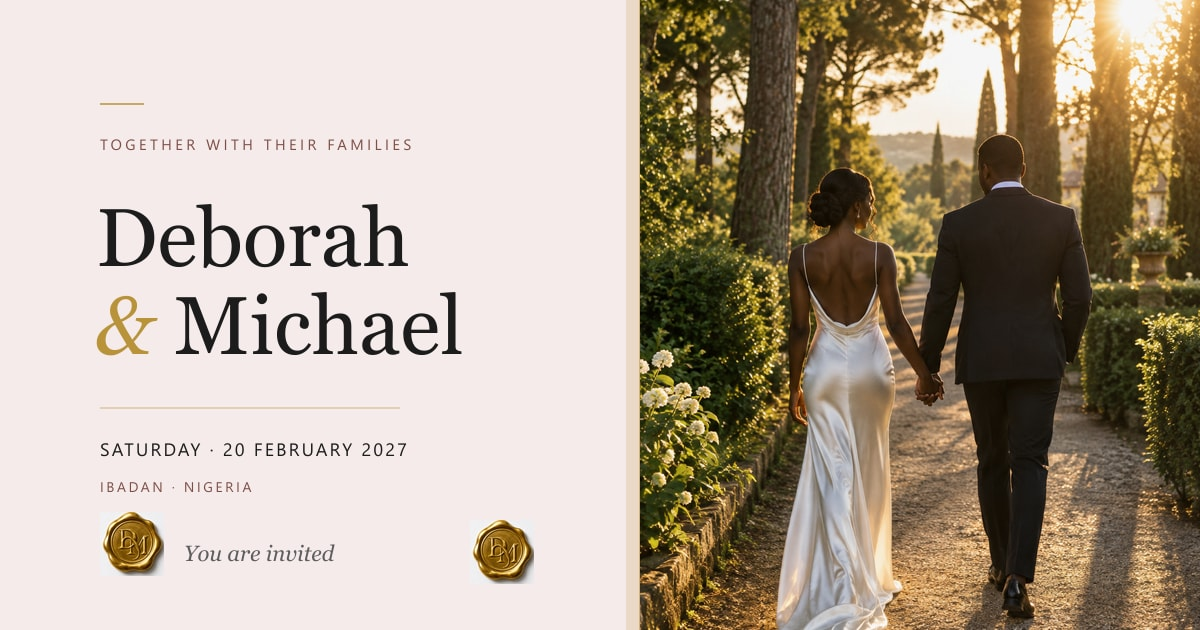
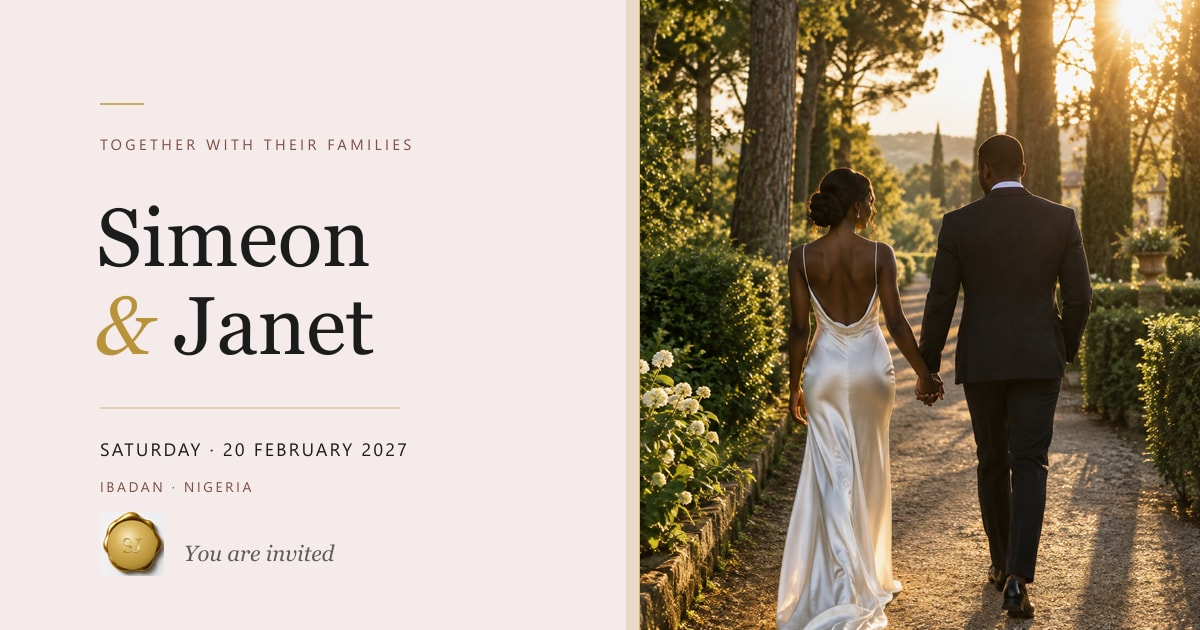
content: Simeon and Janet, three ceremonies, generic story, SJ wax seal

diff --git a/src/lib/wedding.js b/src/lib/wedding.js
@@ -1,29 +1,31 @@
 /**
  * Wedding content — Heirloom Lace template.
  * Every photograph is declared as { local, cloud }: `cloud` is the
- * Cloudinary public id used in production, `local` is the bundled demo copy.
+ * Cloudinary public id used in production, `local` is the bundled copy.
  */
 
 export const wedding = {
   template: "heirloom-lace",
   couple: {
-    first: "Deborah",
-    second: "Michael",
-    initials: "DM",
+    first: "Simeon",
+    second: "Janet",
+    initials: "SJ",
   },
   families: {
-    bride: "Mr & Mrs Adeyemi",
-    groom: "Mr & Mrs Okafor",
+    bride: "Mr & Mrs Matthew",
+    groom: "Elder & Mrs Adewuyi",
   },
-  dateISO: "2027-02-20T10:00:00+01:00",
+  dateISO: "2027-02-20T08:00:00+01:00",
   city: "Ibadan, Nigeria",
   dateShort: "20 · 02 · 2027",
   dateLong: "Saturday, 20 February 2027",
   dateFooter: "SATURDAY · 20 FEBRUARY 2027 · IBADAN",
-  rsvpBy: "20 January",
-  rsvpByFull: "20 January 2027",
+  rsvpBy: "6 February",
+  rsvpByFull: "6 February 2027",
 
   requestLine: "request the honour of your presence at the marriage of their children",
+
+  storyIntro: "From a first conversation to “I do” — a few chapters from our story.",
 
   photos: {
     hero: { local: "/assets/photos/gallery-1.jpg", cloud: "vows/heirloom/hero-walk" },
@@ -42,40 +44,75 @@ export const wedding = {
   },
 
   story: [
-    { date: "September 2019", title: "Where we met", text: "A friend’s birthday dinner in Ibadan, laughter over jollof rice and small chops, and a conversation neither of us wanted to end. Michael walked Deborah to her car that night and asked for her number. Three days later, we had our first proper date.", photoKey: "met" },
-    { date: "December 2019", title: "Our first date", text: "Michael booked a quiet corner table at a small restaurant in Bodija — white tablecloths, candlelight, and a menu neither of us quite understood. Deborah ordered the safest dish on it, Michael ordered the strangest, and we ended up sharing both. We stayed long after dessert, talking until the staff began stacking chairs around us.", photoKey: "firstDate" },
-    { date: "June 2026", title: "The proposal", text: "Michael planned a quiet Sunday lunch at his parents’ home, then disappeared into the garden. When Deborah followed, the fairy lights were already on, her favourite songs were playing softly, and both families were watching from the veranda. He spoke about the seven years since that birthday dinner, got halfway through his speech, gave up on the words and simply asked. She said yes before he finished.", photoKey: "proposal" },
-    { date: "February 2027", title: "The wedding", text: "On the morning of 20 February 2027, the people who shaped us will gather at The White Chapel — our parents, our siblings, and the friends who held every chapter of this story. We will say our vows at ten, celebrate at noon, and dance long after the sun sets. After all this time, the only thing missing is you.", photoKey: "weddingDay" },
+    {
+      date: "The beginning",
+      title: "Where it began",
+      text: "Simeon and Janet’s story began with a conversation neither of them wanted to end. What started as a chance meeting grew into a friendship, and then into something neither could imagine life without.",
+      photoKey: "met",
+    },
+    {
+      date: "The first date",
+      title: "Our first date",
+      text: "The first date was simple — good food, easy laughter and a conversation that carried on long after the plates were cleared. By the end of the evening, they both knew this was the beginning of something lasting.",
+      photoKey: "firstDate",
+    },
+    {
+      date: "The proposal",
+      title: "The proposal",
+      text: "Simeon planned a quiet moment with the people closest to them. There were nerves, a few happy tears and a question that had been on his heart for a long time. Janet said yes.",
+      photoKey: "proposal",
+    },
+    {
+      date: "20 February 2027",
+      title: "The wedding",
+      text: "On Saturday, 20 February 2027, Simeon and Janet will gather their families and friends in Ibadan to celebrate the beginning of their married life. They would love for you to be there.",
+      photoKey: "weddingDay",
+    },
   ],
 
   events: [
     {
+      label: "Traditional wedding",
+      name: "Richbam Junction",
+      time: "8:00 AM",
+      address: "Alao-Akala Expressway, Oluyole, Ibadan",
+      fullAddress:
+        "Richbam Junction, Alao-Akala Expressway, Oluyole, Ibadan, Oyo State, Nigeria",
+      startISO: "2027-02-20T08:00:00+01:00",
+      endISO: "2027-02-20T10:30:00+01:00",
+      photoKey: "hero",
+    },
+    {
       label: "Church wedding",
-      name: "The White Chapel",
-      time: "10:00 AM",
-      address: "14 Bodija Road, Ibadan",
-      fullAddress: "The White Chapel, 14 Bodija Road, Ibadan, Oyo State, Nigeria",
-      coords: { lat: 7.4305, lng: 3.9096 },
+      name: "Living Faith Church",
+      time: "11:00 AM",
+      address: "Akala Express, Ibadan",
+      fullAddress: "Living Faith Church, Akala Express, Ibadan, Oyo State, Nigeria",
+      startISO: "2027-02-20T11:00:00+01:00",
+      endISO: "2027-02-20T12:00:00+01:00",
       photoKey: "church",
     },
     {
       label: "Reception",
-      name: "The Grand Atrium",
+      name: "Richbam Junction",
       time: "12:00 PM",
-      address: "3 Jericho GRA, Ibadan",
-      fullAddress: "The Grand Atrium, 3 Jericho GRA, Ibadan, Oyo State, Nigeria",
-      coords: { lat: 7.4087, lng: 3.8812 },
+      address: "Alao-Akala Expressway, Oluyole, Ibadan",
+      fullAddress:
+        "Richbam Junction, Alao-Akala Expressway, Oluyole, Ibadan, Oyo State, Nigeria",
+      startISO: "2027-02-20T12:00:00+01:00",
+      endISO: "2027-02-20T17:00:00+01:00",
       photoKey: "atrium",
     },
   ],
 
   programme: [
-    { title: "Guests arrive", time: "9:30 AM" },
-    { title: "The ceremony", time: "10:00 AM" },
-    { title: "Photographs", time: "11:30 AM" },
+    { title: "Guests arrive", time: "7:30 AM" },
+    { title: "Traditional wedding", time: "8:00 AM" },
+    { title: "Move to church", time: "10:30 AM" },
+    { title: "Church wedding", time: "11:00 AM" },
     { title: "Reception", time: "12:00 PM" },
-    { title: "Dinner & toasts", time: "2:00 PM" },
-    { title: "First dance", time: "3:30 PM" },
+    { title: "Lunch & toasts", time: "2:00 PM" },
+    { title: "First dance", time: "4:00 PM" },
   ],
 
   dress: {
@@ -84,8 +121,8 @@ export const wedding = {
   },
 
   gallery: [
-    { photoKey: "hero", caption: "The walk", alt: "Deborah and Michael walking hand in hand along a tree-lined path at golden hour" },
-    { photoKey: "bouquet", caption: "Her bouquet", alt: "Deborah’s white rose and eucalyptus bouquet" },
+    { photoKey: "hero", caption: "The walk", alt: "Simeon and Janet walking hand in hand along a tree-lined path at golden hour" },
+    { photoKey: "bouquet", caption: "Her bouquet", alt: "Janet’s white rose and eucalyptus bouquet" },
     { photoKey: "rings", caption: "The rings", alt: "Gold wedding rings on ivory satin" },
     { photoKey: "cake", caption: "The cake", alt: "Four-tier white and gold wedding cake" },
     { photoKey: "dinner", caption: "Dinner", alt: "A place setting with gold cutlery and olive leaves" },
@@ -94,5 +131,5 @@ export const wedding = {
 
   music: { label: "Our song", src: "/assets/audio/our-song.mp3" },
 
-  invitation: { slug: "deborah-michael" },
+  invitation: { slug: "simeon-janet" },
 };

diff --git a/index.html b/index.html
@@ -6,22 +6,22 @@
     <meta name="theme-color" content="#f5ebeb" />
     <meta
       name="description"
-      content="Deborah & Michael are getting married. Saturday, 20 February 2027, Ibadan. You are invited — open the invitation, view the details and reply."
+      content="Simeon & Janet are getting married. Saturday, 20 February 2027, Ibadan. You are invited — open the invitation, view the details and reply."
     />
     <meta name="format-detection" content="telephone=no" />
     <meta name="mobile-web-app-capable" content="yes" />
     <meta name="apple-mobile-web-app-capable" content="yes" />
-    <meta name="apple-mobile-web-app-title" content="D & M" />
+    <meta name="apple-mobile-web-app-title" content="S & J" />
     <meta name="apple-mobile-web-app-status-bar-style" content="default" />
 
-    <title>Deborah &amp; Michael · 20 February 2027</title>
+    <title>Simeon &amp; Janet · 20 February 2027</title>
     <link rel="canonical" href="https://vows-deborah-michael.vercel.app/" />
 
     <!-- Link previews (WhatsApp, iMessage, X, Facebook) -->
     <meta property="og:type" content="website" />
     <meta property="og:url" content="https://vows-deborah-michael.vercel.app/" />
-    <meta property="og:site_name" content="Deborah & Michael" />
-    <meta property="og:title" content="Deborah & Michael · You are invited" />
+    <meta property="og:site_name" content="Simeon & Janet" />
+    <meta property="og:title" content="Simeon & Janet · You are invited" />
     <meta
       property="og:description"
       content="Saturday, 20 February 2027 · Ibadan, Nigeria. Open the invitation, view the details and reply."
@@ -32,10 +32,10 @@
     <meta property="og:image:height" content="630" />
     <meta
       property="og:image:alt"
-      content="Deborah and Michael walking hand in hand at golden hour"
+      content="Simeon and Janet walking hand in hand at golden hour"
     />
     <meta name="twitter:card" content="summary_large_image" />
-    <meta name="twitter:title" content="Deborah & Michael · You are invited" />
+    <meta name="twitter:title" content="Simeon & Janet · You are invited" />
     <meta
       name="twitter:description"
       content="Saturday, 20 February 2027 · Ibadan, Nigeria. Open the invitation, view the details and reply."
@@ -83,17 +83,17 @@
       {
         "@context": "https://schema.org",
         "@type": "Event",
-        "name": "The wedding of Deborah & Michael",
-        "description": "The wedding ceremony and reception of Deborah and Michael.",
-        "startDate": "2027-02-20T10:00:00+01:00",
+        "name": "The wedding of Simeon & Janet",
+        "description": "The traditional, church and reception celebrations of Simeon and Janet.",
+        "startDate": "2027-02-20T08:00:00+01:00",
         "eventStatus": "https://schema.org/EventScheduled",
         "eventAttendanceMode": "https://schema.org/OfflineEventAttendanceMode",
         "location": {
           "@type": "Place",
-          "name": "The White Chapel",
+          "name": "Richbam Junction",
           "address": {
             "@type": "PostalAddress",
-            "streetAddress": "14 Bodija Road",
+            "streetAddress": "Richbam Junction, Alao-Akala Expressway, Oluyole",
             "addressLocality": "Ibadan",
             "addressRegion": "Oyo State",
             "addressCountry": "NG"

diff --git a/src/lib/ics.js b/src/lib/ics.js
@@ -1,6 +1,6 @@
 import { wedding } from "./wedding";
 
-/** Download an .ics covering both wedding events. */
+/** Download an .ics covering every wedding event. */
 export function downloadWeddingIcs() {
   const pad = (n) => String(n).padStart(2, "0");
   const now = new Date();
@@ -8,19 +8,22 @@ export function downloadWeddingIcs() {
     `${now.getUTCFullYear()}${pad(now.getUTCMonth() + 1)}${pad(now.getUTCDate())}` +
     `T${pad(now.getUTCHours())}${pad(now.getUTCMinutes())}00Z`;
 
+  const toUtc = (iso) =>
+    new Date(iso).toISOString().replace(/[-:]/g, "").replace(/\.\d{3}Z$/, "Z");
+
   const events = wedding.events
-    .map((e, i) => {
-      const startUtc = i === 0 ? "20270220T090000Z" : "20270220T110000Z"; // 2PM / 5PM WAT
-      const endUtc = i === 0 ? "20270220T103000Z" : "20270220T180000Z";
+    .map((event, index) => {
+      const start = toUtc(event.startISO ?? wedding.dateISO);
+      const end = toUtc(event.endISO ?? event.startISO ?? wedding.dateISO);
       return [
         "BEGIN:VEVENT",
-        `UID:vows-${wedding.invitation.slug}-${i + 1}@vows.demo`,
+        `UID:vows-${wedding.invitation.slug}-${index + 1}@vows.demo`,
         `DTSTAMP:${stamp}`,
-        `DTSTART:${startUtc}`,
-        `DTEND:${endUtc}`,
-        `SUMMARY:${wedding.couple.first} & ${wedding.couple.second} — ${e.label}`,
-        `LOCATION:${e.fullAddress}`,
-        `DESCRIPTION:${e.time}. ${wedding.dress.headline}.`,
+        `DTSTART:${start}`,
+        `DTEND:${end}`,
+        `SUMMARY:${wedding.couple.first} & ${wedding.couple.second} — ${event.label}`,
+        `LOCATION:${event.fullAddress}`,
+        `DESCRIPTION:${event.time}. ${wedding.dress.headline}.`,
         "END:VEVENT",
       ].join("\r\n");
     })
@@ -31,6 +34,7 @@ export function downloadWeddingIcs() {
     "VERSION:2.0",
     "PRODID:-//VOWS//Invitation//EN",
     "CALSCALE:GREGORIAN",
+    `X-WR-CALNAME:${wedding.couple.first} & ${wedding.couple.second} — Wedding`,
     events,
     "END:VCALENDAR",
   ].join("\r\n");
@@ -39,7 +43,7 @@ export function downloadWeddingIcs() {
   const url = URL.createObjectURL(blob);
   const a = document.createElement("a");
   a.href = url;
-  a.download = "deborah-michael-wedding.ics";
+  a.download = `${wedding.invitation.slug}-wedding.ics`;
   document.body.appendChild(a);
   a.click();
   a.remove();

diff --git a/src/scenes/Scene08Rsvp.jsx b/src/scenes/Scene08Rsvp.jsx
@@ -194,12 +194,12 @@ export function Scene08Rsvp({ onNext, onDetails }) {
           <WaxSeal size={64} className="reply-done__seal" />
           <p className="type-title">RSVPs are now closed</p>
           <p className="type-body-lg text-secondary reply-done__line">
-            The couple are finalising numbers with the venue. If you need to reach them, message Tobi
-            (best man) on WhatsApp.
+            The couple are finalising numbers with the venue. If you need to reach them, message
+            the couple on WhatsApp.
           </p>
         </motion.div>
         <div className="reply-done__actions">
-          <a className="vbtn vbtn--white reply-done__cta" href="https://wa.me/2348000000000" target="_blank" rel="noreferrer">
+          <a className="vbtn vbtn--white reply-done__cta" href="https://wa.me/2349035517399" target="_blank" rel="noreferrer">
             Message on WhatsApp
           </a>
         </div>

diff --git a/src/styles/scenes.css b/src/styles/scenes.css
@@ -438,6 +438,30 @@
 .scene-entrance__music .pill__bars i:nth-child(3) { height: 8.8px; }
 .scene-entrance__music .pill__bars i:nth-child(4) { height: 11.2px; }
 
+/* New SJ monogram plate over the baked envelope seal (monogram only). */
+.env-monogram {
+  position: absolute;
+  z-index: 3;
+  left: 50%;
+  top: 52.67%;
+  width: 12.5%;
+  aspect-ratio: 1;
+  transform: translate(-50%, -50%);
+  pointer-events: none;
+}
+.env-monogram img {
+  display: block;
+  width: 100%;
+  height: 100%;
+  object-fit: contain;
+}
+@media (min-width: 768px) and (max-width: 1023px) {
+  .env-monogram { top: 45.83%; width: 11.5%; }
+}
+@media (min-width: 1024px) {
+  .env-monogram { top: 55.78%; width: 6%; }
+}
+
 .scene-entrance__date {
   position: absolute;
   z-index: 2;

diff --git a/src/scenes/Scene03SaveDate.jsx b/src/scenes/Scene03SaveDate.jsx
@@ -23,7 +23,7 @@ export function Scene03SaveDate() {
   const hours = Math.floor((left % 86400000) / 3600000);
   const minutes = Math.floor((left % 3600000) / 60000);
   const seconds = Math.floor((left % 60000) / 1000);
-  const eventTime = wedding.events?.[0]?.time ?? "10:00 AM";
+  const eventTime = wedding.events?.[0]?.time ?? "8:00 AM";
 
   const units = [
     { value: days, label: "days" },

diff --git a/src/scenes/Scene06Details.jsx b/src/scenes/Scene06Details.jsx
@@ -21,7 +21,7 @@ export function Scene06Details() {
 
       <motion.header className="scene-head" variants={riseChild} initial="initial" whileInView="animate" viewport={inView}>
         <p className="kicker">The details</p>
-        <h1 className="type-display">Ceremony &amp; reception</h1>
+        <h1 className="type-display">The celebrations</h1>
       </motion.header>
 
       <motion.div

diff --git a/src/scenes/Scene02Card.jsx b/src/scenes/Scene02Card.jsx
@@ -34,7 +34,7 @@ export function Scene02Card({ onNext }) {
           <div className="invite-card__portrait">
             <Photo
               photo={wedding.photos.hero}
-              alt="Deborah and Michael walking hand in hand"
+              alt="Simeon and Janet walking hand in hand"
               width={160}
               height={200}
               crop="fill"

diff --git a/src/scenes/Scene04Letters.jsx b/src/scenes/Scene04Letters.jsx
@@ -28,7 +28,7 @@ export function Scene04Letters() {
         <p className="kicker">Letters from</p>
         <h1 className="type-display">Our story</h1>
         <p className="story-intro">
-          From a birthday dinner in Ibadan to “I do” — these are the letters that brought us here.
+          {wedding.storyIntro}
         </p>
       </motion.header>
 

diff --git a/src/components/WaxSeal.jsx b/src/components/WaxSeal.jsx
@@ -1,5 +1,5 @@
-/** The gold DM wax seal from the design. */
-export function WaxSeal({ size = 64, className = "", alt = "Deborah & Michael wax seal" }) {
+/** The gold wax seal from the design. */
+export function WaxSeal({ size = 64, className = "", alt = "Simeon & Janet wax seal" }) {
   return (
     <img
       src="/assets/renders/wax-seal.webp"

diff --git a/src/components/TopBar.jsx b/src/components/TopBar.jsx
@@ -42,7 +42,7 @@ export function TopBar({ active, showRsvp, onExplore, onNavigate, onRsvp }) {
           onNavigate?.(1);
         }}
       >
-        D <span className="mono__amp">&amp;</span> M
+        S <span className="mono__amp">&amp;</span> J
       </a>
 
       <nav className="topnav" aria-label="Invitation sections">

diff --git a/README.md b/README.md
@@ -81,12 +81,12 @@ until the RSVP deadline.
 ## Viewing replies
 
 Open **Supabase Dashboard → Table Editor → `rsvps`** and filter on
-`invitation_slug = 'deborah-michael'`, or run:
+`invitation_slug = 'simeon-janet'`, or run:
 
 ```sql
 select guest_name, choice, guests, note, updated_at
 from public.rsvps
-where invitation_slug = 'deborah-michael'
+where invitation_slug = 'simeon-janet'
 order by updated_at desc;
 ```
 
